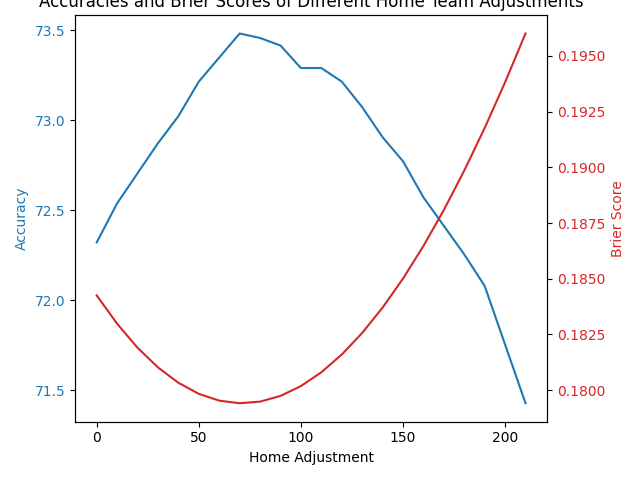
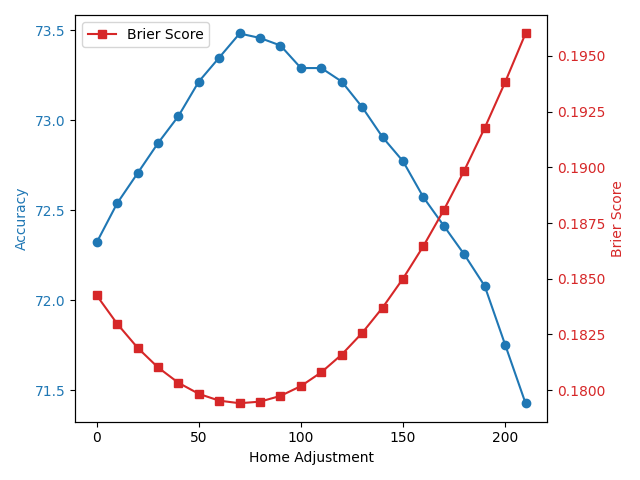
made visualizations better

diff --git a/accuracy/src/accuracy/totalAccuracyPresentation.py b/accuracy/src/accuracy/totalAccuracyPresentation.py
@@ -14,20 +14,19 @@ e73 = adjustedEloAccuracyFunction.getAccuracy(seasons, [],[],[],[],[],'','','','
 e100 = adjustedEloAccuracyFunction.getAccuracy(seasons, [],[],[],[],[],'','','','',100)[0]
 e125 = adjustedEloAccuracyFunction.getAccuracy(seasons, [],[],[],[],[],'','','','',125)[0]
 
-
-categories = ["ML","Elo", 'AE25', 'AE50', 'AE73', 'AE100', 'AE125', "Rank"]
-values = [m,e, e25, e50, e73, e100, e125, p]
-colors = ['green','blue', 'lightblue', 'skyblue', 'steelblue','darkblue','navy', 'red']
+categories = ["Betting Market", "Poll Ranking", "Elo Rating", 'Adjusted Elo Rating (+25)', 'Adjusted Elo Rating (+50)', 'Adjusted Elo Rating (+73)', 'Adjusted Elo Rating (+100)', 'Adjusted Elo Rating (+125)']
+values = [m, p,e, e25, e50, e73, e100, e125]
+colors = ['green', 'red', 'blue', 'lightblue', 'skyblue', 'steelblue','darkblue','navy']
 
 plt.bar(categories, values, color=colors)
 
-plt.ylabel('Total Accuracy Rate')
-plt.title('ML, Elo, Adjusted Elo, and Rank Total Accuracy Rates')
+plt.ylabel('Total Accuracy Rate (%)')
 
 plt.ylim(60, 80)
+
+# Rotating x-labels by 45 degrees
+plt.xticks(rotation=45)
 
 plt.savefig('accuracy/visualizations/presentation/totalWithAdjustedPresentation.png')
 
 plt.show()
-
-

diff --git a/accuracy/src/accuracy/emAdjustedPresentation.py b/accuracy/src/accuracy/emAdjustedPresentation.py
@@ -40,15 +40,13 @@ for season in range(2007, 2024):
         adjusted_m.append(float(adjusted_m_rate[0]))
 
         
-
-plt.plot(seasons, elo_accuracy, color="blue", label = "Elo")
-plt.plot(seasons, moneyline_accuracy, color="green", label = "Moneyline")
-plt.plot(seasons, adjusted_elo_accuracy, color = "black", label = "Adjusted Elo (+73)")
-plt.plot(seasons, adjusted_m, color = "purple", label = "Adjusted ML (-125)")
+plt.plot(seasons, moneyline_accuracy, color="green", label = "Betting Market")
+plt.plot(seasons, elo_accuracy, color="blue", label = "Elo Rating")
+plt.plot(seasons, adjusted_m, color = "purple", label = "Adjusted Betting Market (-125)")
+plt.plot(seasons, adjusted_elo_accuracy, color = "black", label = "Adjusted Elo Rating (+73)")
 
 plt.xlabel('Season')
 plt.ylabel('Accuracy')
-plt.title('Elo, Adjusted Elo, ML, and Adjusted ML Accuracy of All Teams')
 plt.legend()
 plt.grid(True)
 

diff --git a/accuracy/src/accuracy/emp25Presentation.py b/accuracy/src/accuracy/emp25Presentation.py
@@ -40,13 +40,13 @@ for season in range(2007, 2019):
     else:
         poll_accuracy.append(float(poll_rate[0]))
 
-plt.plot(seasons, elo_accuracy, color="blue", label = "Elo")
-plt.plot(seasons, moneyline_accuracy, color="green", label = "Moneyline")
-plt.plot(seasons, poll_accuracy, color="red", label = "Rank")
+plt.plot(seasons, moneyline_accuracy, color="green", label = "Betting Market")
+plt.plot(seasons, poll_accuracy, color="red", label = "Poll Ranking")
+plt.plot(seasons, elo_accuracy, color="blue", label = "Elo Rating")
+
 
 plt.xlabel('Season')
 plt.ylabel('Accuracy')
-plt.title('Elo, Moneyline, and Rank Accuracy of Top 25 Teams (2007 - 2019)')
 plt.legend()
 plt.grid(True)
 

diff --git a/accuracy/src/accuracy/moneylinePercentages.py b/accuracy/src/accuracy/moneylinePercentages.py
@@ -22,8 +22,7 @@ plt.plot(labels, accuracies, color='green', label='Actual Win Rate')
 plt.plot(labels, expected, color='red', label='Expected Win Rate')
 
 plt.xlabel("Positive Moneyline Score")
-plt.ylabel("Win Rate")
-plt.title("Expected vs Actual Win Rate of Positive Moneyline Teams")
+plt.ylabel("Win Rate (%)")
 plt.legend()
 plt.savefig('accuracy/visualizations/moneylinePercentages.png')
 plt.savefig('accuracy/visualizations/presentation/moneylinePercentagesPresentation.png')

diff --git a/accuracy/src/accuracy/moneylineBuckets.py b/accuracy/src/accuracy/moneylineBuckets.py
@@ -41,8 +41,7 @@ plt.close()
 labels = [200,300,400,500,600,700,800,900,1000]
 plt.scatter(labels, accuracies)
 plt.xlabel("Bucket Thresholds")
-plt.ylabel("Accuracy Rate")
-plt.title("Accuracy Rates Across Moneyline Difference Buckets")
+plt.ylabel("Accuracy Rate (%)")
 
 slope, intercept = np.polyfit(labels, accuracies, 1)
 plt.plot(labels, np.polyval([slope, intercept], labels), color='red', label='Linear Regression')

diff --git a/accuracy/src/accuracy/eloAdjustmentWithBrierPresentation.py b/accuracy/src/accuracy/eloAdjustmentWithBrierPresentation.py
@@ -33,6 +33,7 @@ ax2.plot(labels, brier_scores, color=color, marker='s', label='Brier Score')
 ax2.tick_params(axis='y', labelcolor=color)
 
 fig.tight_layout()  
-plt.title("Accuracies and Brier Scores of Different Home Team Adjustments")
 plt.legend(loc='upper left')
+
+plt.savefig("accuracy/visualizations/presentation/eloAdjustmentWithBrierPresentation.png")
 plt.show()
